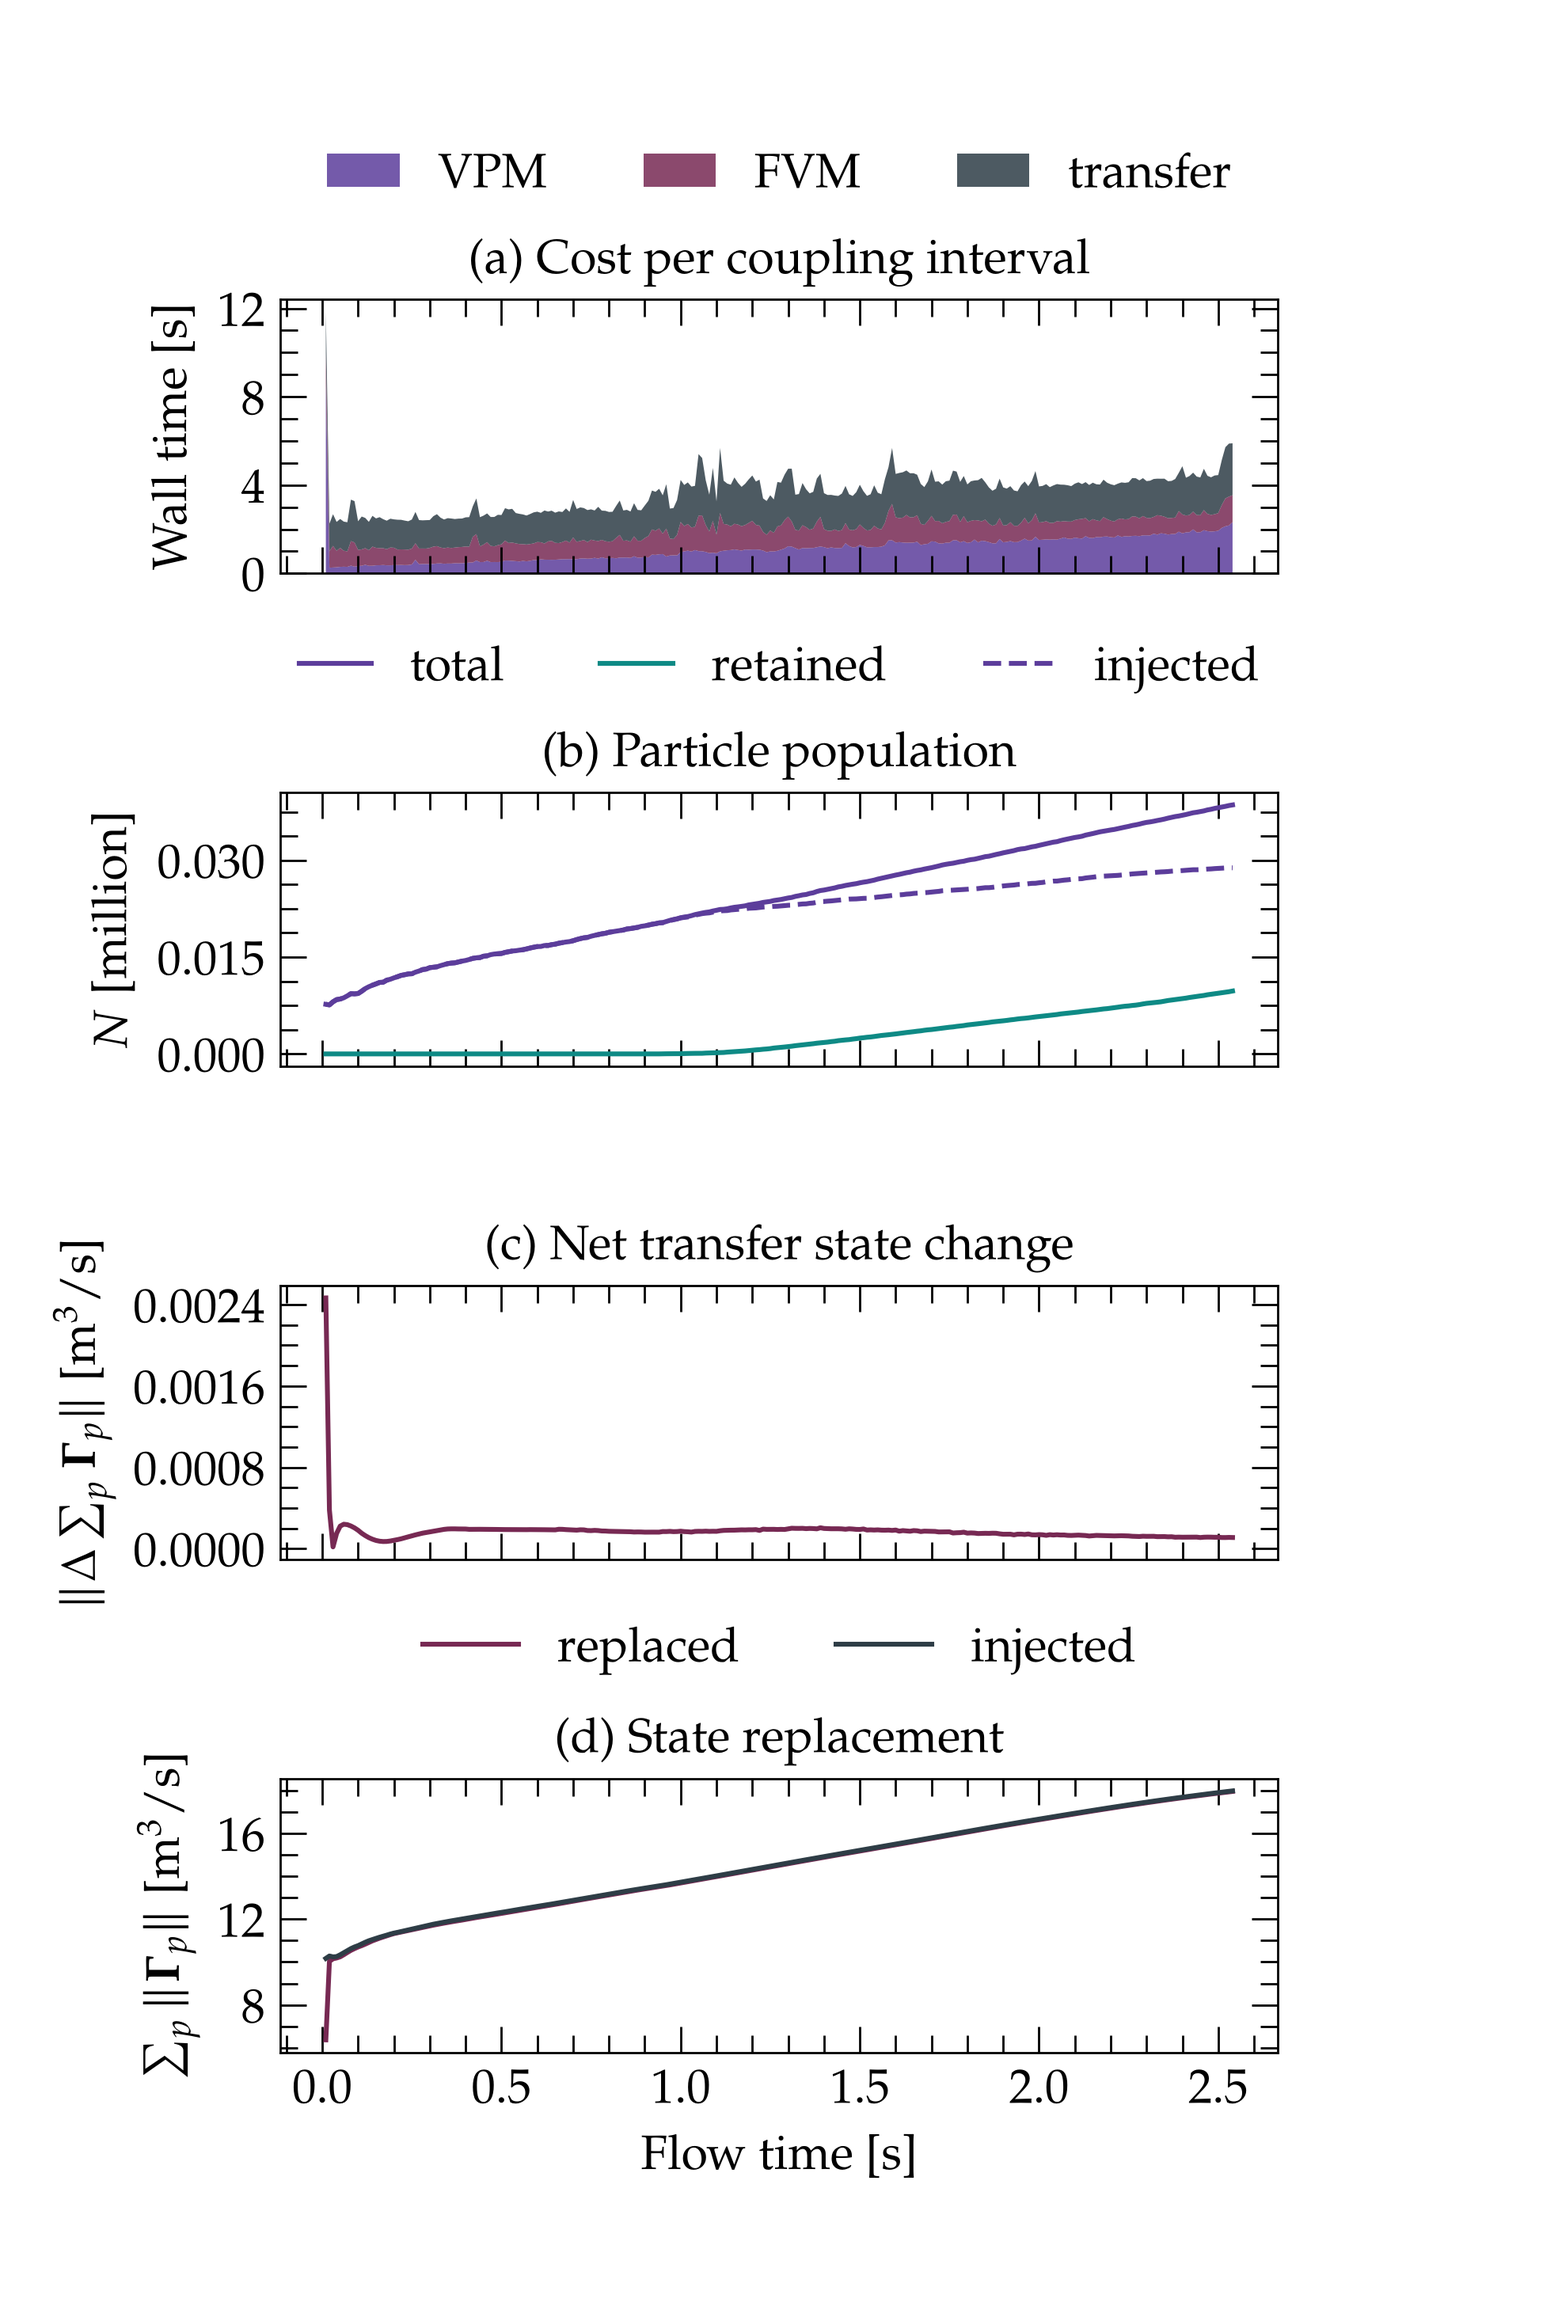
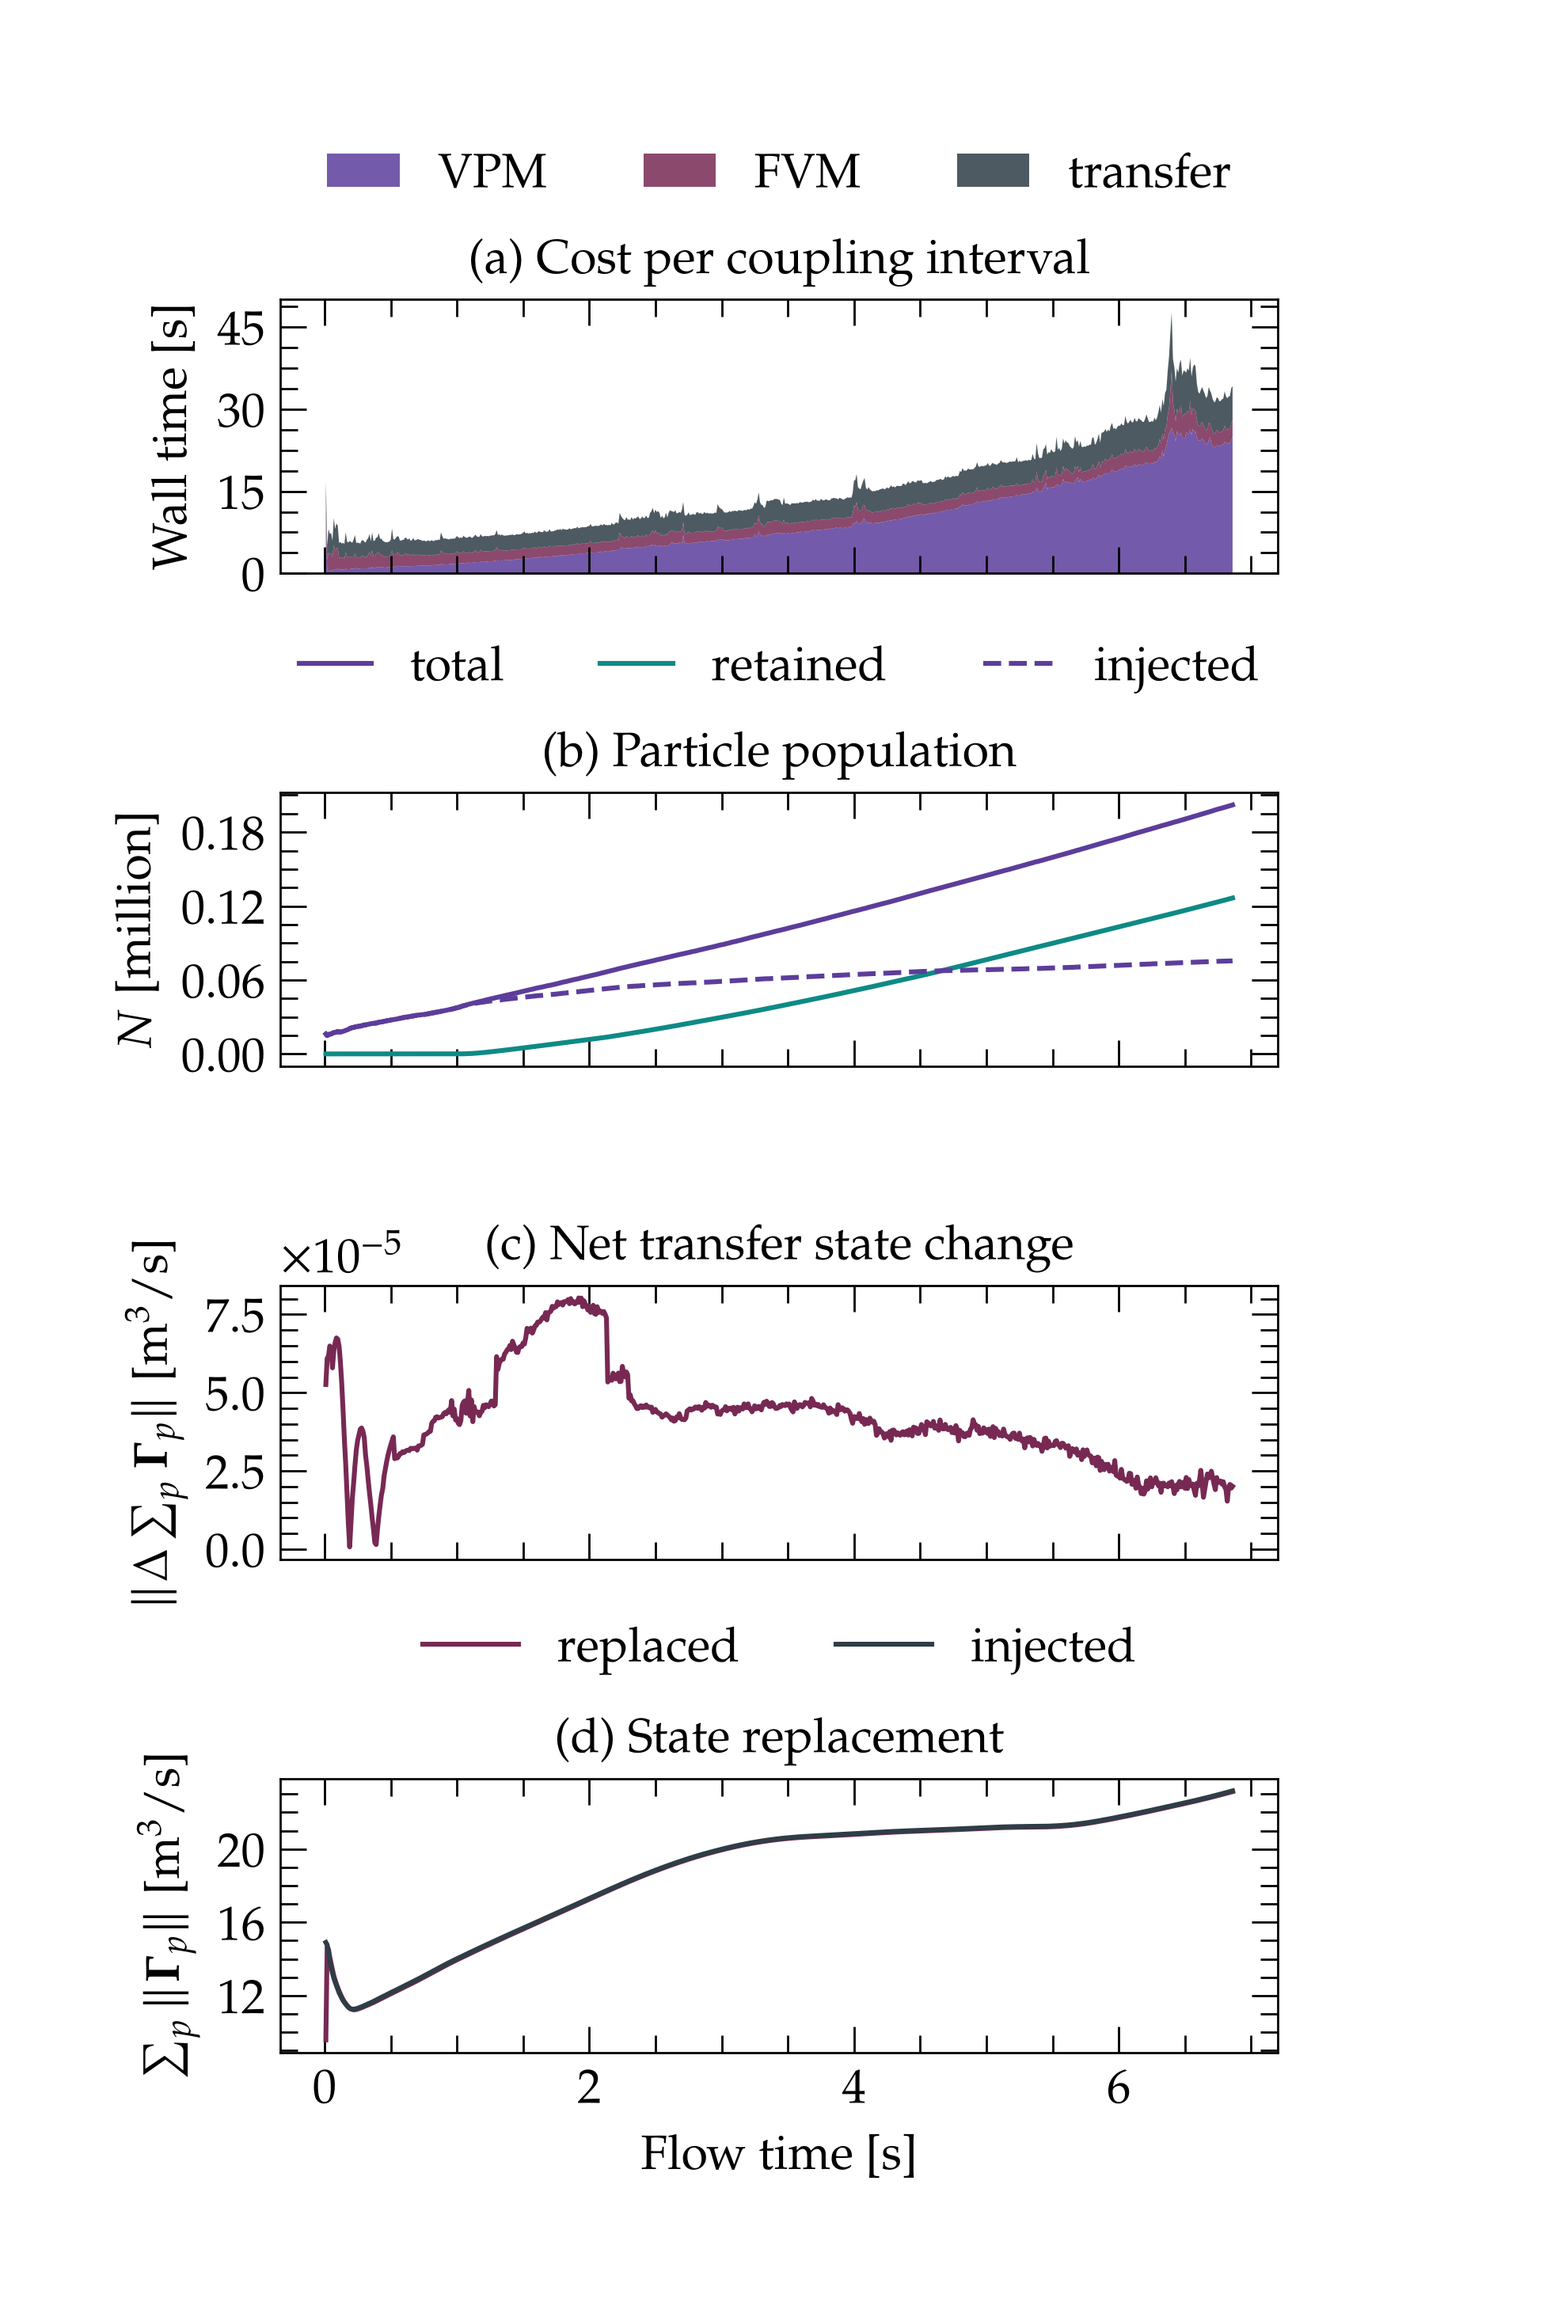
Update cube flow comparison results

diff --git a/tutorials/coupled_fvm_vpm/02_cube_flow/figures/auxiliary/comparison_report.md b/tutorials/coupled_fvm_vpm/02_cube_flow/figures/auxiliary/comparison_report.md
@@ -1,7 +1,7 @@
 # Cube comparison report
 
 Reference: reference_flow/samples/fine/ and reference_flow/solution/fine/.
-Comparison ends at t=2 s. Reference data after
+Comparison ends at t=6 s. Reference data after
 this time are not used in the figures. No simulation was advanced by plotting.
 
 ## What is matched
@@ -9,9 +9,9 @@ this time are not used in the figures. No simulation was advanced by plotting.
 - Density, viscosity, initial conditions, FVM spatial/time schemes, turbulence
   closure, PIMPLE correctors/relaxation, linear tolerances and force definitions
   agree in the saved configurations.
-- The saved meshes have different cube-adjacent Cartesian spacings: [0.05999999865889549] m for the coupled mesh and [0.04500000178813934] m for the reference. The field plots remain comparisons at common physical sample coordinates, but their differences include this resolution mismatch.
-  The coupled mesh has 145,740 cells and
-  1,872 cube faces; the reference has
+- Both meshes have cube-adjacent Cartesian spacing 0.045 m (requested fine target: 0.06 m).
+  The coupled mesh has 359,184 cells and
+  3,360 cube faces; the reference has
   692,604 cells and 3,360 cube faces.
   Their fitted wall cells and outer boundaries are not identical.
 - Both FVM velocity fields use the existing 3D affine reconstruction with 12
@@ -54,13 +54,13 @@ region, where VPM is auxiliary. They are not whole-domain hybrid error maps.
 The line profiles include the sampled outer wake. A z=0 section of 3D fields
 does not establish accuracy everywhere in three dimensions.
 
-At the latest compared time, t=2 s:
+At the latest compared time, t=6 s:
 
 | Comparison | RMS [% U_inf] | Sampled max [% U_inf] | Area [D^2] |
 |---|---:|---:|---:|
-| Coupled FVM / VPM (overlap consistency) | 1.090 | 6.994 | 8.9568 |
-| Reference FVM / VPM (auxiliary overlap field) | 3.606 | 21.836 | 8.9568 |
-| Reference FVM / Coupled FVM (primary near field) | 3.694 | 23.274 | 8.9568 |
+| Coupled FVM / VPM (overlap consistency) | 1.395 | 23.094 | 9.2583 |
+| Reference FVM / VPM (auxiliary overlap field) | 1.670 | 28.049 | 9.2583 |
+| Reference FVM / Coupled FVM (primary near field) | 1.072 | 7.858 | 9.2583 |
 
 
 These are instantaneous sampled differences, not time-averaged error estimates.
